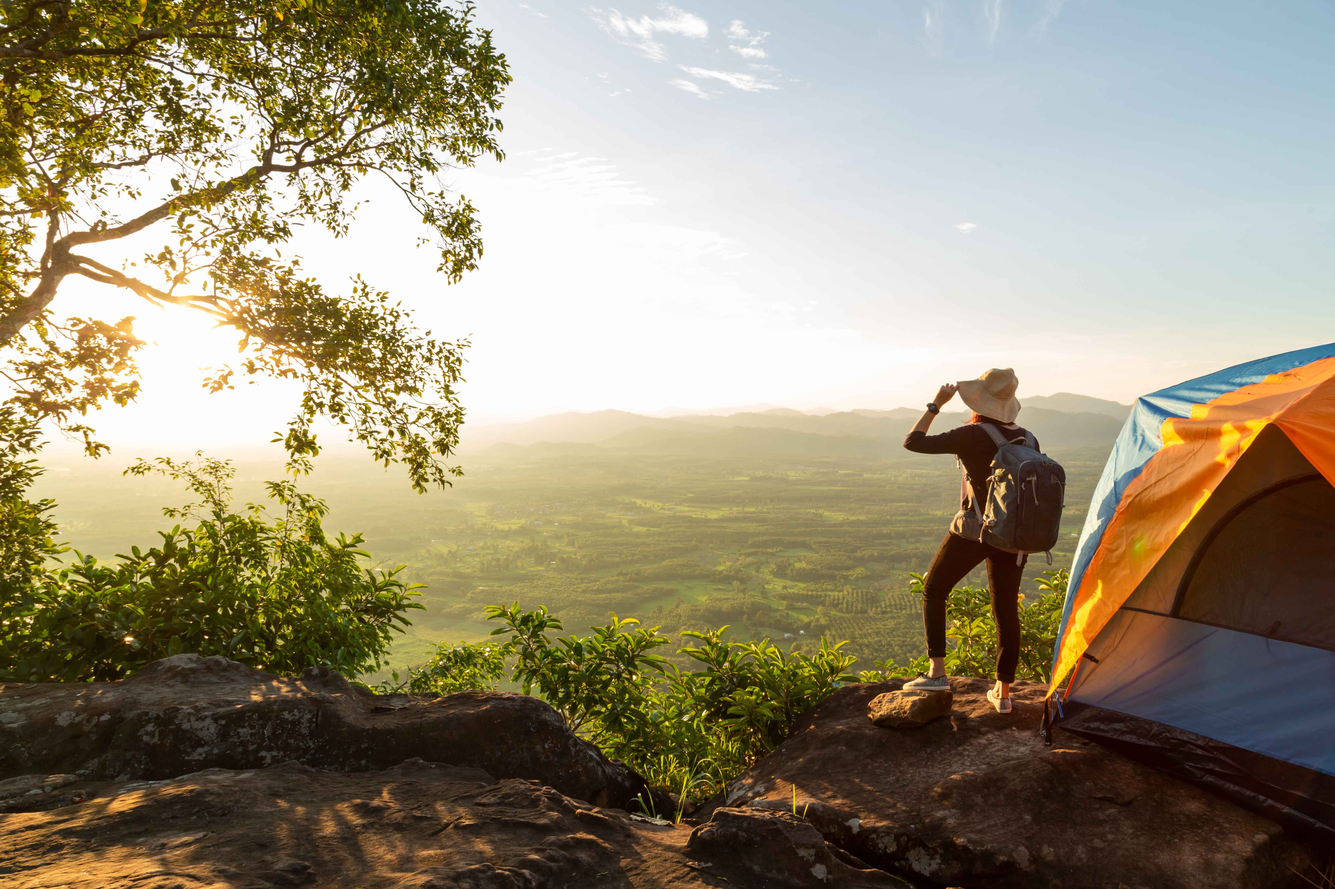
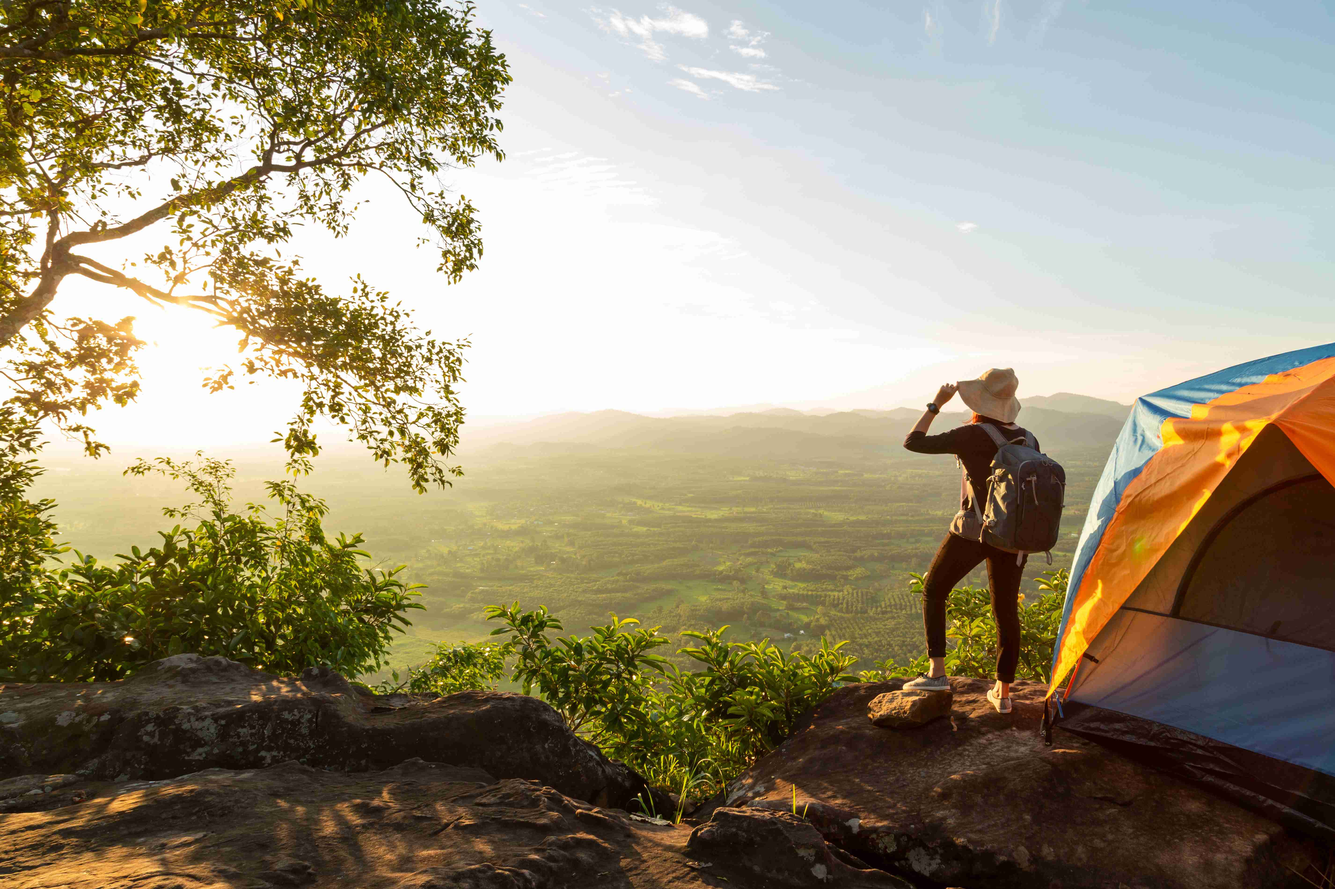
Story routes created, and images compressed

diff --git a/backend/controllers/storyController.js b/backend/controllers/storyController.js
@@ -1,0 +1,101 @@
+import mongoose from "mongoose";
+import { Story } from "../models/storyModel";
+
+export const getStories = async (req, res) => {
+  try {
+    const getStories = await Story.find({});
+    res.status(200).json(getStories);
+  } catch (err) {
+    res.status(400).json({ error: err.message });
+  }
+};
+
+export const getStory = async (req, res) => {
+  const { id } = req.params;
+  try {
+    if (!mongoose.Types.ObjectId.isValid(id)) {
+      res.status(400).json({
+        error: "The resource you're trying to access is not available",
+      });
+    }
+
+    const getStory = await Story.findById(id);
+
+    if (!getStory) {
+      res.status(404).json({
+        error: "The resource you're trying to access is not available",
+      });
+    }
+
+    res.status(200).json(getStory);
+  } catch (err) {
+    res.status(400).json({ error: err.message });
+  }
+};
+
+export const postStory = async (req, res) => {
+  const { title, content, figCaption, backImage } = req.body;
+  try {
+    const addStory = await Story.create({
+      title,
+      content,
+      figCaption,
+      backImage,
+    });
+    res.status(201).json(addStory);
+  } catch (error) {
+    res.status(400).json({ error: err.message });
+  }
+};
+
+export const deleteStory = async (req, res) => {
+  const { id } = req.params;
+  try {
+    if (!mongoose.Types.ObjectId.isValid(id)) {
+      res.status(400).json({
+        error: "The resource you're trying to access is not available",
+      });
+    }
+
+    const deleteStory = await Story.findByIdAndDelete({ _id: id });
+
+    if (!deleteStory) {
+      res.status(404).json({
+        error: "The resource you're trying to access is not available",
+      });
+    }
+    res.status(200).json(deleteStory);
+  } catch (err) {
+    res.status(400).json({ error: err.message });
+  }
+};
+
+export const updateStory = async (req, res) => {
+  const { id } = req.params;
+  try {
+    if (!mongoose.Types.ObjectId.isValid(id)) {
+      res.status(400).json({
+        error: "The resource you're trying to access is not available",
+      });
+    }
+
+    const updateStory = await Story.findByIdAndUpdate(
+      { _id: id },
+      {
+        ...req.body,
+      },
+      {
+        new: true,
+      }
+    );
+
+    if (!updateStory) {
+      res.status(404).json({
+        error: "The resource you're trying to access is not available",
+      });
+    }
+    res.status(200).json(updateStory);
+  } catch (err) {
+    res.status(400).json({ error: err.message });
+  }
+};

diff --git a/client/src/components/header/header.styles.scss b/client/src/components/header/header.styles.scss
@@ -27,7 +27,7 @@
       rgba(46, 49, 146, 0.6),
       rgba(27, 255, 255, 0.6)
     ),
-    url("../../assets/header-about.jpg");
+    url("../../assets/header-about-small.jpg");
 
     // @supports (clip-path: polygon(0 0)) and (-webkit-clip-path: polygon(0 0)) {
     //   -webkit-clip-path: polygon(0 0, 100% 0, 100% 75vh, 0 75vh);
@@ -41,7 +41,7 @@
       rgba(46, 49, 146, 0.7),
       rgba(27, 255, 255, 0.7)
     ),
-    url("../../assets/header-tours.jpg");
+    url("../../assets/header-tours-small.jpg");
   }
 
   &--story {
@@ -50,7 +50,7 @@
       rgba(46, 49, 146, 0.6),
       rgba(27, 255, 255, 0.6)
     ),
-    url("../../assets/header-story.jpg");
+    url("../../assets/header-story-small.jpg");
     background-position: top;
   }
 

diff --git a/backend/routes/storyRoute.js b/backend/routes/storyRoute.js
@@ -1,6 +1,20 @@
 import express from express;
 const router = express.Router();
+import { deleteStory, getStories, getStory, postStory, updateStory } from "../controllers/storyController";
 
-router.get('/stories', () => {});
+/* get all stories */ 
+router.get('/', getStories);
+
+/* get single story */ 
+router.get('/:id', getStory);
+
+/* post story */ 
+router.get('/', postStory);
+
+/* delete story */ 
+router.get('/:id', deleteStory);
+
+/* update story */ 
+router.get('/:id', updateStory);
 
 export const storyRoutes = router;

diff --git a/backend/models/tourModel.js b/backend/models/tourModel.js
@@ -28,8 +28,10 @@ export const tourSchema = new Schema({
   },
   details: [
     {
-      type: String,
-      required: true,
+      item: {
+        type: String,
+        required: true,
+      },
     },
   ],
   popupTitle: {
@@ -52,4 +54,4 @@ export const tourSchema = new Schema({
   ],
 });
 
-export const Tour = mongoose.model('Tour', tourSchema);
+export const Tour = mongoose.model("Tour", tourSchema);

diff --git a/client/src/components/landing-about/landing-about.component.jsx b/client/src/components/landing-about/landing-about.component.jsx
@@ -2,7 +2,7 @@ import { Link } from "react-router-dom";
 import "./landing-about.styles.scss";
 import { GridLayout2x1 } from "../../layout/grid-2x1/grid-layout2x1.component";
 
-import image1Grid from '../../assets/traveller-large.jpg'
+import image1Grid from '../../assets/traveller-small.jpg'
 import image2Grid from '../../assets/header-booking-small.jpeg'
 import image3Grid from '../../assets/about-3.jpg'
 
